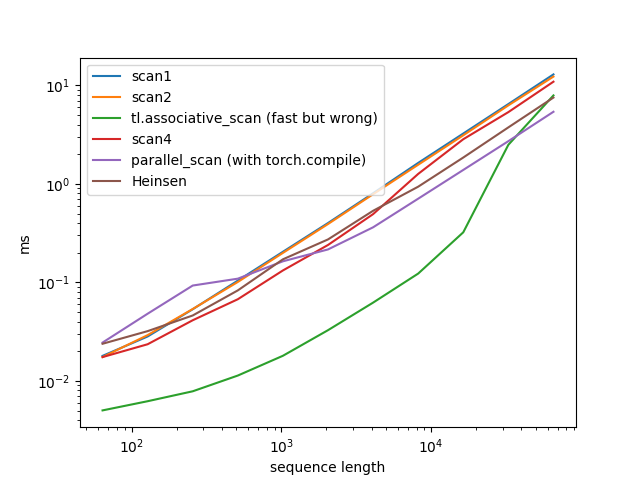
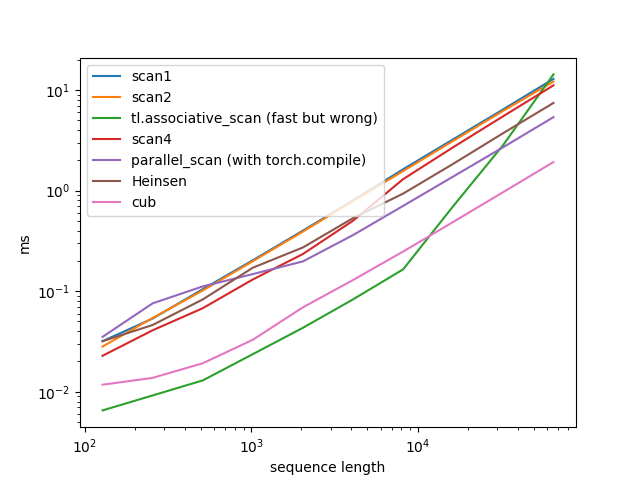
plug cub scan in for measurements

diff --git a/triscan.py b/triscan.py
@@ -4,7 +4,6 @@ import torch.nn.functional as F
 import triton
 import triton.language as tl
 
-
 @triton.jit
 def scan1(
     gates,
@@ -261,7 +260,7 @@ def parallel_scan1(gates, x, mul, add, zeros_like, level):
 @triton.testing.perf_report([
     triton.testing.Benchmark(
         x_names=["SEQUENCE_LENGTH"],  # argument names to use as an x-axis for the plot
-        x_vals=[2**i for i in range(6,17)],
+        x_vals=[2**i for i in range(7,17)],
         xlabel='sequence length',
         ylabel='ms',
         x_log=True,
@@ -269,24 +268,24 @@ def parallel_scan1(gates, x, mul, add, zeros_like, level):
         line_arg="provider",  # argument name whose value corresponds to a different line in the plot
         #line_vals=["scan1", "scan2", "tl.associative_scan", "eager"],  # argument values to use as different lines in the plot
         #line_names=["scan1", "scan2", "tl.associative_scan", "eager"],  # legend entries to use for each line
-        line_vals=["scan1", "scan2", "tl.associative_scan", "scan4", "parallel_scan", "heinsen_positive"],
-        line_names=["scan1", "scan2", "tl.associative_scan (fast but wrong)", "scan4", "parallel_scan (with torch.compile)", "Heinsen"],
+        line_vals=["scan1", "scan2", "tl.associative_scan", "scan4", "parallel_scan", "heinsen_positive", "cub"],
+        line_names=["scan1", "scan2", "tl.associative_scan (fast but wrong)", "scan4", "parallel_scan (with torch.compile)", "Heinsen", "cub"],
         plot_name="scan1",  # name of the plot
         args={
             #"SEQUENCE_LENGTH": seq_len,
         }
     ),
-    triton.testing.Benchmark(
-        x_names=["SEQUENCE_LENGTH"],
-        x_vals=[2**i for i in range(6,17)],
-        line_arg="CHUNK_LENGTH",
-        line_vals=[1,2,4,8,16,32,64,128,256],
-        line_names=[str(s) for s in [1,2,4,8,16,32,64,128,256]],
-        plot_name="scan2",
-        args={
-            "provider": "scan2",
-        }
-    ),
+    # triton.testing.Benchmark(
+    #     x_names=["SEQUENCE_LENGTH"],
+    #     x_vals=[2**i for i in range(7,17)],
+    #     line_arg="CHUNK_LENGTH",
+    #     line_vals=[1,2,4,8,16,32,64,128,256],
+    #     line_names=[str(s) for s in [1,2,4,8,16,32,64,128,256]],
+    #     plot_name="scan2",
+    #     args={
+    #         "provider": "scan2",
+    #     }
+    # ),
     # triton.testing.Benchmark(
     #     x_names=["SEQUENCE_LENGTH"],
     #     x_vals=[2**i for i in range(9)], # short sequence lengths as loop compilation is very slow
@@ -304,17 +303,19 @@ def bench(provider, SEQUENCE_LENGTH, CHUNK_LENGTH=64, device="cuda"):
     gates, tokens = init(B, C, T, device)
     outputs = torch.empty_like(tokens)
 
-    print(f"Running {provider} with sequence length {SEQUENCE_LENGTH} and chunk length {CHUNK_LENGTH}")
-
     match provider:
         case "scan1":
+            print(f"Running {provider} with sequence length {SEQUENCE_LENGTH}")
             scan = lambda: scan1[(B,C)](gates, tokens, outputs, SEQUENCE_LENGTH)
         case "scan2":
+            print(f"Running {provider} with sequence length {SEQUENCE_LENGTH} and chunk length {CHUNK_LENGTH}")
             scan = lambda: scan2[(B,C)](gates, tokens, outputs, SEQUENCE_LENGTH, CHUNK_LENGTH)
         case "tl.associative_scan":
+            print(f"Running {provider} with sequence length {SEQUENCE_LENGTH}")
             output_gates = torch.zeros_like(gates).contiguous()
             scan = lambda: scan3[(B,C)](gates, tokens, outputs, output_gates, SEQUENCE_LENGTH)
         case "scan4":
+            print(f"Running {provider} with sequence length {SEQUENCE_LENGTH} and chunk length {CHUNK_LENGTH}")
             outputs = torch.zeros_like(tokens).contiguous()
             ports = torch.zeros_like(gates).contiguous() + 42
             locks = torch.zeros((B, C), dtype=torch.int32, device=device).contiguous()
@@ -332,12 +333,20 @@ def bench(provider, SEQUENCE_LENGTH, CHUNK_LENGTH=64, device="cuda"):
                                                             CHUNK_LENGTH=CHUNK_LENGTH,
                                                             num_warps=1)
         case "parallel_scan":
+            print(f"Running {provider} with sequence length {SEQUENCE_LENGTH}")
             scan = lambda: parallel_scan(gates, tokens)
         case "heinsen_positive":
+            print(f"Running {provider} with sequence length {SEQUENCE_LENGTH}")
             scan = lambda: heinsen_positive(gates.abs().log(), tokens.abs().log())
+        case "cub":
+            print(f"Running {provider} with sequence length {SEQUENCE_LENGTH}")
+            from cuscan import simple_scan_forward
+            scan = lambda: simple_scan_forward(gates, tokens)
         case "eager":
+            print(f"Running {provider} with sequence length {SEQUENCE_LENGTH}")
             scan = lambda: scan_eager(gates, tokens, outputs)
         case "compile":
+            print(f"Running {provider} with sequence length {SEQUENCE_LENGTH}")
             # compilation times are proportional to sequence length!
             compiled = torch.compile(scan_eager)
             scan = lambda: compiled(gates, tokens, outputs)

diff --git a/cuscan.py b/cuscan.py
@@ -6,7 +6,7 @@ from pathlib import Path
 cuda_source = (Path(__file__).parent / 'cuscan.cuh').read_text()
 
 cpp_source = """
-std::vector<at::Tensor> simple_scan_forward(const at::Tensor &tokens, const at::Tensor &gates);
+std::vector<at::Tensor> simple_scan_forward(const at::Tensor &gates, const at::Tensor &tokens);
 """
 
 module = load_inline(
@@ -16,5 +16,7 @@ module = load_inline(
     functions=['simple_scan_forward'],
     verbose=True
 )
+simple_scan_forward = module.simple_scan_forward
 
-print(module.simple_scan_forward(torch.ones(1,1,128).cuda(), torch.ones(1,1,128).cuda()))
+if __name__ == '__main__':
+    print(module.simple_scan_forward(torch.ones(1,1,128).cuda(), torch.ones(1,1,128).cuda()))
